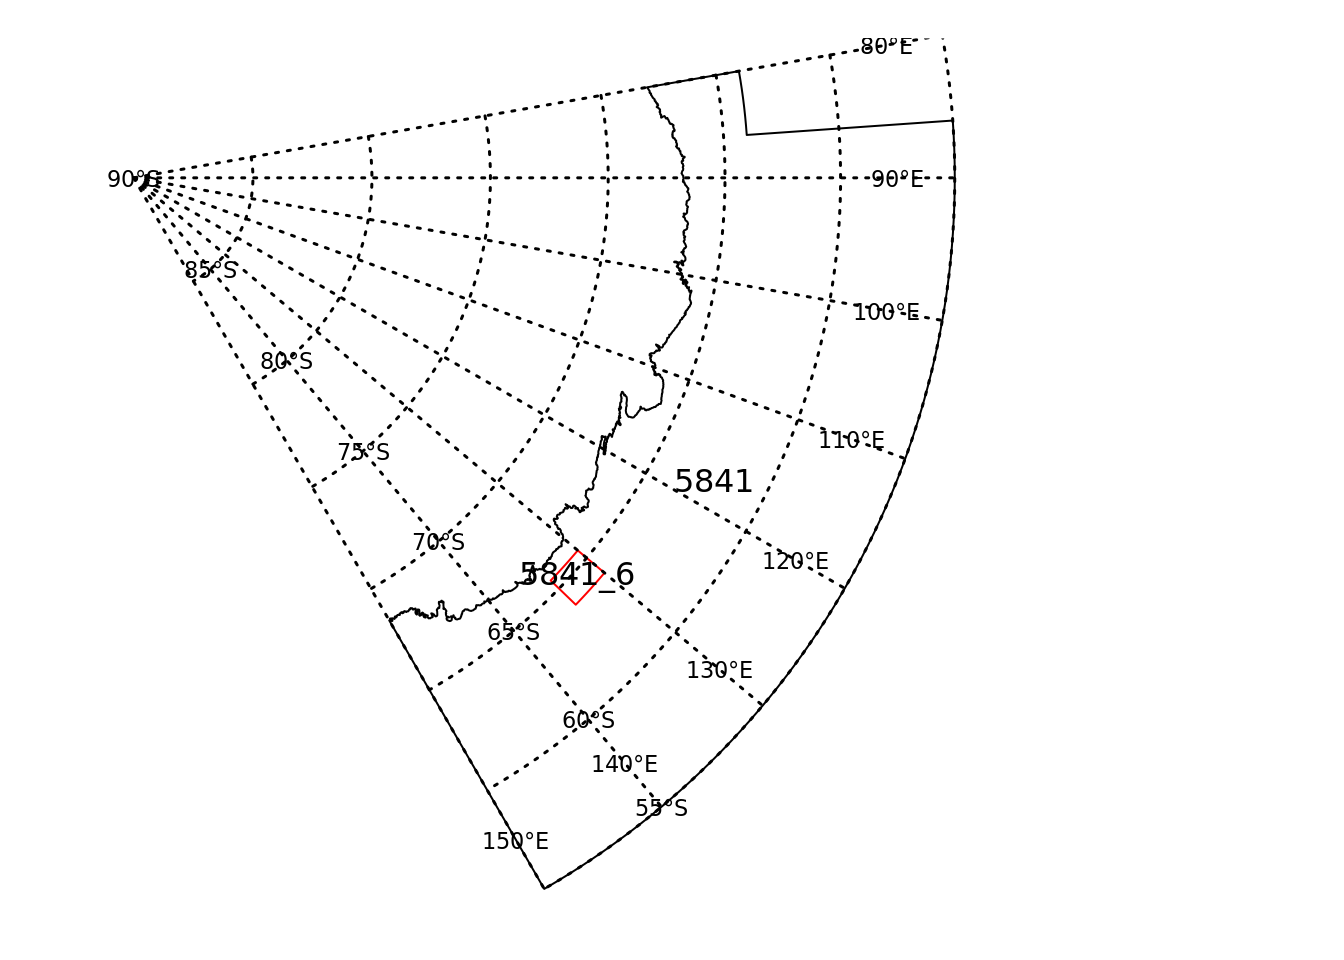
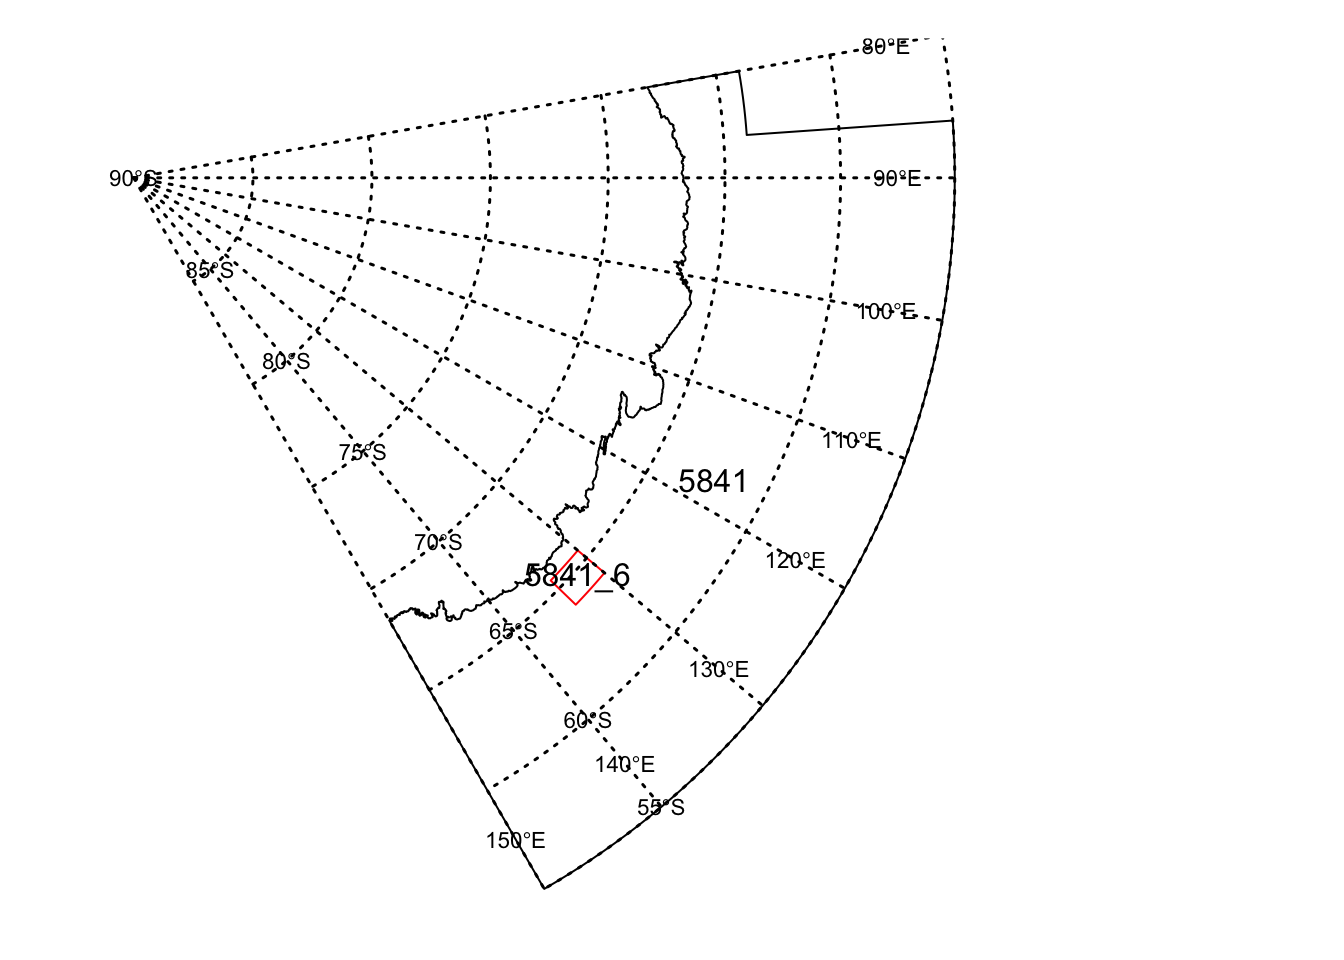
updated vignette

diff --git a/docs/index.html b/docs/index.html
@@ -99,7 +99,7 @@ Name &lt;-<span class="st">"5841_6"</span>
 <span class="co"># specify the Longitude coordinates in decimal degrees</span>
 Lons &lt;-<span class="st"> </span><span class="kw">c</span>(<span class="dv">130</span>, <span class="dv">130</span>, <span class="dv">134</span>, <span class="dv">134</span>)
 <span class="co"># sepcify the Latitude coordinates in decimal degrees</span>
-Lats &lt;-<span class="st"> </span><span class="kw">c</span>(<span class="op">-</span><span class="fl">64.0</span>, <span class="fl">-65.5</span>, <span class="fl">-65.5</span>,<span class="op">-</span><span class="fl">64.0</span>)
+Lats &lt;-<span class="st"> </span><span class="kw">c</span>(<span class="op">-</span><span class="fl">64.0</span>, <span class="op">-</span><span class="fl">65.5</span>, <span class="op">-</span><span class="fl">65.5</span>,<span class="op">-</span><span class="fl">64.0</span>)
 <span class="co"># bind information together into a dataframe for input into the create_Polys function see ?create_Polys </span>
 Coords &lt;-<span class="st"> </span><span class="kw">data.frame</span>(<span class="dt">Name=</span><span class="kw">rep</span>(Name,<span class="kw">length</span>(Lons)),<span class="dt">Lats=</span>Lats,<span class="dt">Lons=</span>Lons)
 
@@ -116,13 +116,13 @@ New_RB &lt;-<span class="kw"><a href="reference/create_Polys.html">create_Polys<
 
 <span class="co"># create graticules for plotting below</span>
 meridians &lt;-<span class="st"> </span><span class="kw">seq</span>(<span class="dv">80</span>,<span class="dv">150</span>, <span class="dt">by =</span> <span class="dv">10</span>)
-parallels &lt;-<span class="st"> </span><span class="kw">seq</span>(<span class="op">-</span><span class="dv">90</span>, <span class="dv">-55</span>, <span class="dt">by =</span> <span class="dv">5</span>)
+parallels &lt;-<span class="st"> </span><span class="kw">seq</span>(<span class="op">-</span><span class="dv">90</span>, <span class="op">-</span><span class="dv">55</span>, <span class="dt">by =</span> <span class="dv">5</span>)
 
 
 mlim &lt;-<span class="st"> </span><span class="kw">c</span>(<span class="kw">min</span>(meridians), <span class="kw">max</span>(meridians))
 plim &lt;-<span class="st"> </span><span class="kw">c</span>(<span class="kw">min</span>(parallels), <span class="kw">max</span>(parallels))
 grat &lt;-<span class="st"> </span><span class="kw"><a href="http://www.rdocumentation.org/packages/graticule/topics/graticule">graticule</a></span>(<span class="dt">lons =</span> meridians, <span class="dt">lats =</span> parallels, <span class="dt">xlim =</span> mlim, <span class="dt">ylim =</span> plim, <span class="dt">proj =</span> raster<span class="op">::</span><span class="kw"><a href="http://www.rdocumentation.org/packages/raster/topics/projection">projection</a></span>(New_RB))
-labs &lt;-<span class="st"> </span><span class="kw"><a href="http://www.rdocumentation.org/packages/graticule/topics/graticule_labels">graticule_labels</a></span>(meridians, parallels, <span class="dt">xline =</span> <span class="dv">140</span>, <span class="dt">yline =</span> <span class="fl">-57.5</span>, <span class="dt">proj =</span> raster<span class="op">::</span><span class="kw"><a href="http://www.rdocumentation.org/packages/raster/topics/projection">projection</a></span>(New_RB))</code></pre></div>
+labs &lt;-<span class="st"> </span><span class="kw"><a href="http://www.rdocumentation.org/packages/graticule/topics/graticule_labels">graticule_labels</a></span>(meridians, parallels, <span class="dt">xline =</span> <span class="dv">140</span>, <span class="dt">yline =</span> <span class="op">-</span><span class="fl">57.5</span>, <span class="dt">proj =</span> raster<span class="op">::</span><span class="kw"><a href="http://www.rdocumentation.org/packages/raster/topics/projection">projection</a></span>(New_RB))</code></pre></div>
 </div>
 <div id="load-asd-data-and-index-subarea-andor-division-of-interest" class="section level4">
 <h4 class="hasAnchor">

diff --git a/docs/news/index.html b/docs/news/index.html
@@ -98,9 +98,10 @@
     <div id="ccamlrgis-2-0-0-9000" class="section level1">
 <h1 class="hasAnchor">
 <a href="#ccamlrgis-2-0-0-9000" class="anchor"></a>CCAMLRGIS 2.0.0.9000</h1>
-<ul>
-<li>This <code>NEWS.md</code> file is used to notify users of substantive changes to the package.</li>
-</ul>
+<p>Discuss Draft vignette - name of Vignette CCAMLRGIS_R</p>
+<p>planning to get your thoughts on that and on the create_Lines and create_Points functions that have been added. Thinking about adding an extract_area function that can be used to assign management areas codes to a dataframe/extract from the Secretariat that incudes long and lats or seabed_area function that is used to calculate seabed area - need to be able to pull raster data in for the online GIS when it becomes available</p>
+<p>Tagging different releases of the CCAMLRGIS R package – is there value in doing this? Should I report all or some of these points as Issues on Github?</p>
+<p>Automated testing from travis and appveyor Unit testing type functions Check if data in the package is up-to-date with what’s available online and if not, how we might initiate an auto-sync to update data in the package (hoardr - scott) Would also be good to discuss how accessing previous versions of ccamlr data might be incorporated bowerbird- user needs a little cache</p>
 </div>
     </div>
   </div>

diff --git a/docs/reference/CCAMLRGIS.html b/docs/reference/CCAMLRGIS.html
@@ -110,6 +110,12 @@ Data that is classified as "master" data is available in "GEOJSON" format and "R
     <p>create_Polys and create_PolyGrids
  Other functions that support the create functions include Clip2Coast and DensifyData</p>
     
+    <h2 class="hasAnchor" id="vignettes"><a class="anchor" href="#vignettes"></a>Vignettes</h2>
+
+    
+    <p>To learn more about tagr, start with the vignettes:
+<code>browseVignettes(package = "CCAMLRGIS")</code></p>
+    
 
   </div>
   <div class="col-md-3 hidden-xs hidden-sm" id="sidebar">
@@ -119,6 +125,8 @@ Data that is classified as "master" data is available in "GEOJSON" format and "R
       <li><a href="#load-functions-are-used-to-import-ccamlr-reference-into-r-ideally-from-the-geoserver-and-include">load functions are used to import CCAMLR Reference into R (ideally from the geoserver) and include</a></li>
 
       <li><a href="#create-functions-are-used-to-create-spatial-data-that-is-compatible-with-ccamlr-reference-data-and-the-ccamlr-online-gis-the-include">create functions are used to create spatial data that is compatible with CCAMLR Reference data and the CCAMLR online GIS. The include</a></li>
+
+      <li><a href="#vignettes">Vignettes</a></li>
           </ul>
 
   </div>

diff --git a/docs/reference/index.html b/docs/reference/index.html
@@ -253,6 +253,12 @@ Load Other Fishery Management Areas</p></td>
         </tr><tr>
           <!--  -->
           <td>
+            <p><code><a href="seabed_area.html">seabed_area</a></code> </p>
+          </td>
+          <td><p>Calculate planimetric seabed area</p></td>
+        </tr><tr>
+          <!--  -->
+          <td>
             <p><code><a href="SSMU_data.html">SSMU_data</a></code> </p>
           </td>
           <td><p>SSMU data</p></td>
@@ -262,6 +268,12 @@ Load Other Fishery Management Areas</p></td>
             <p><code><a href="SSRU_data.html">SSRU_data</a></code> </p>
           </td>
           <td><p>SSRU data</p></td>
+        </tr><tr>
+          <!--  -->
+          <td>
+            <p><code><a href="sum_area.html">sum_area</a></code> </p>
+          </td>
+          <td><p>Sum planimetric seabed area</p></td>
         </tr>
       </tbody>
       </table>
